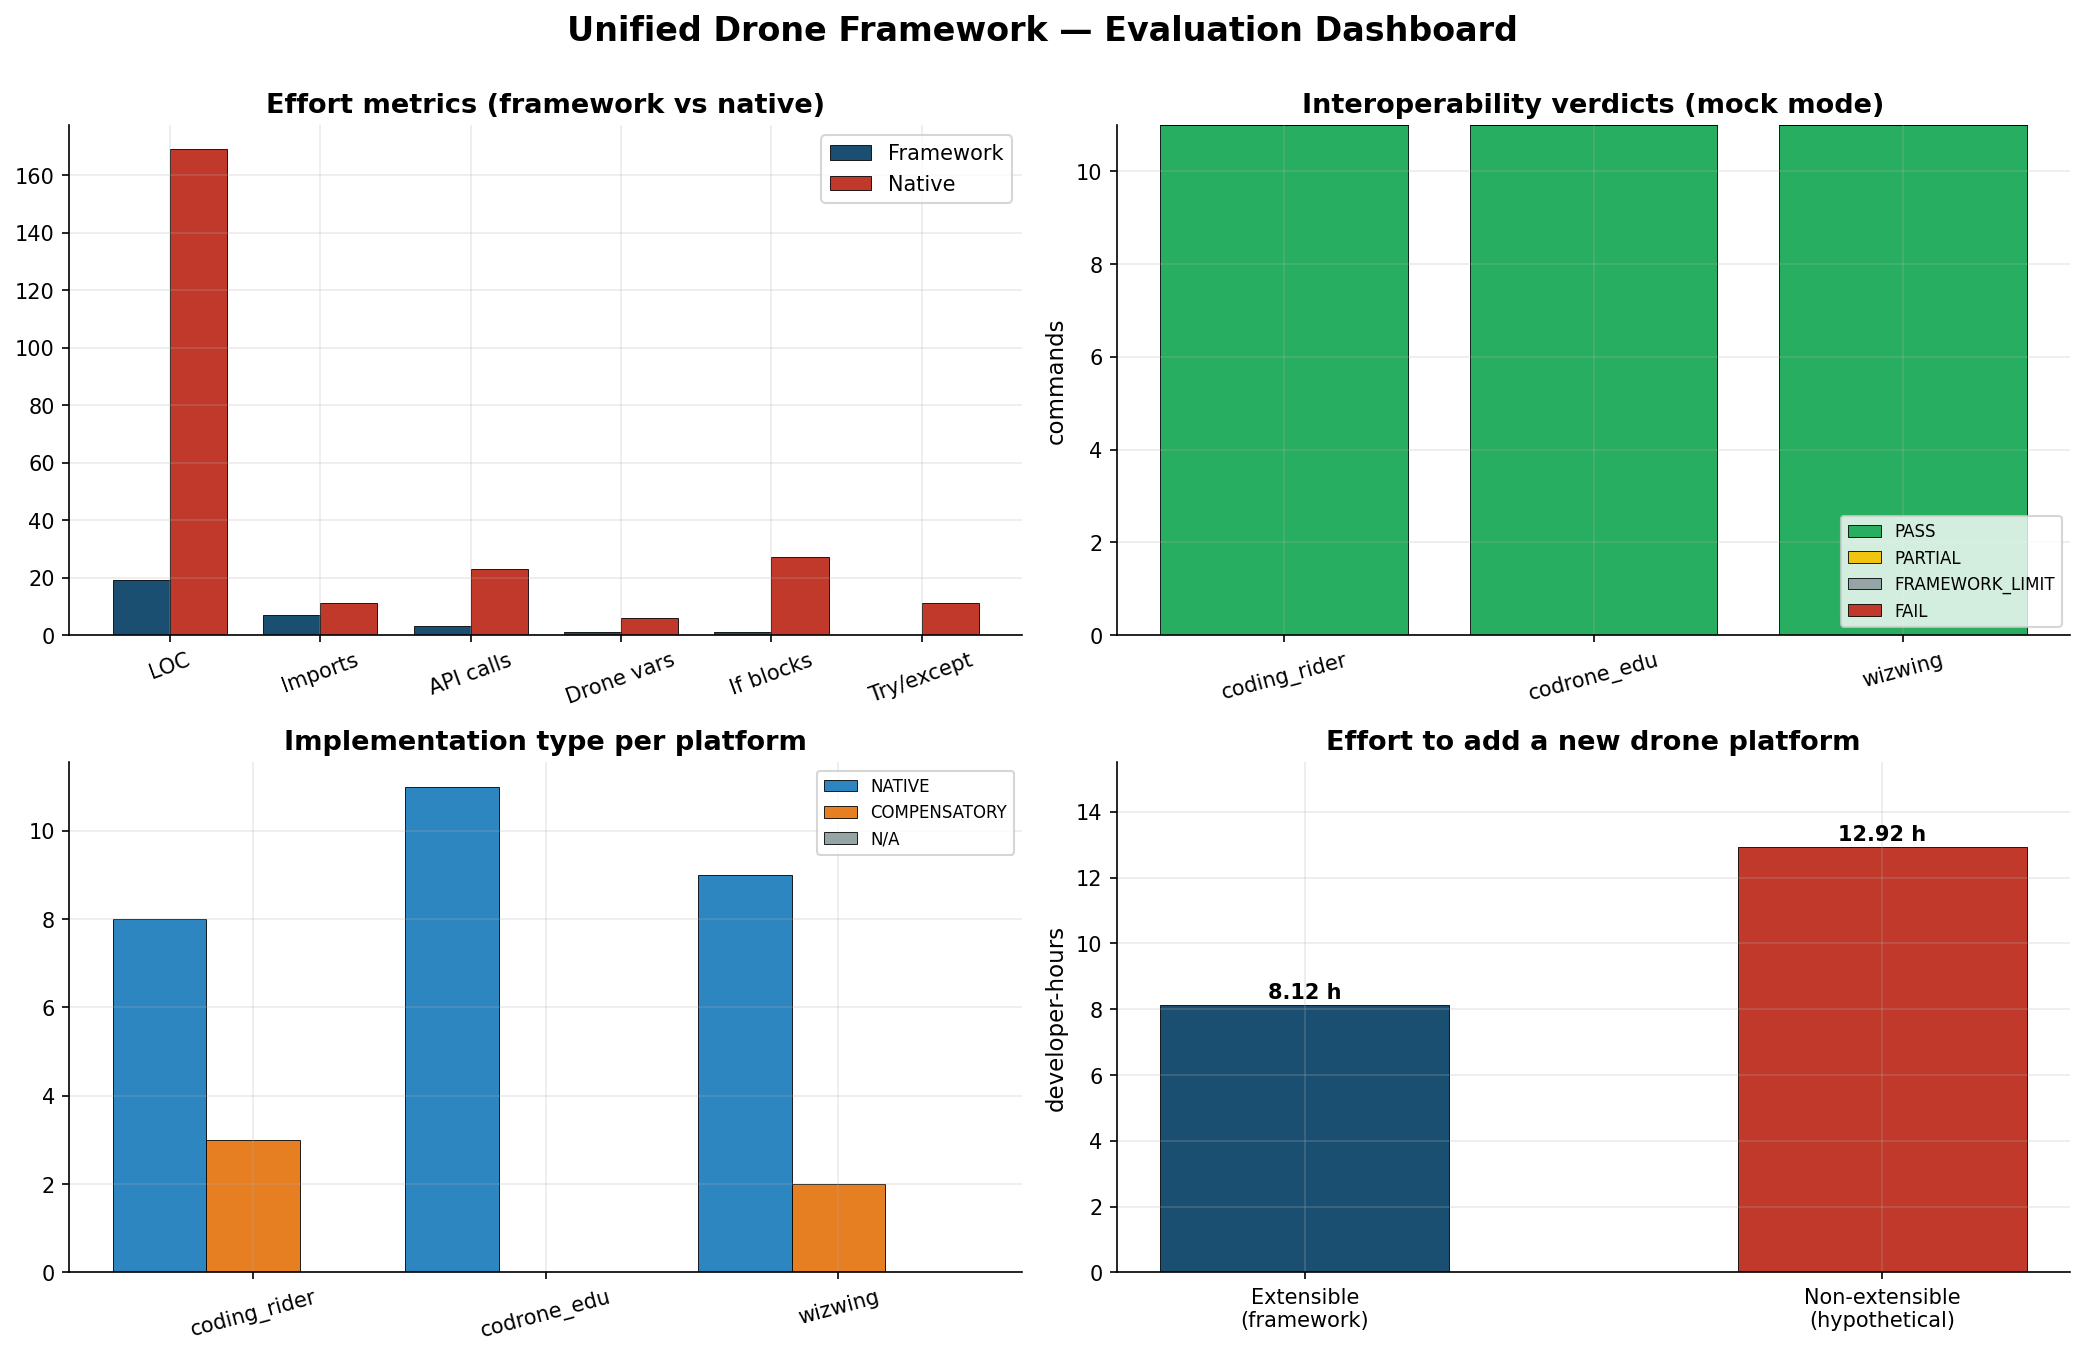
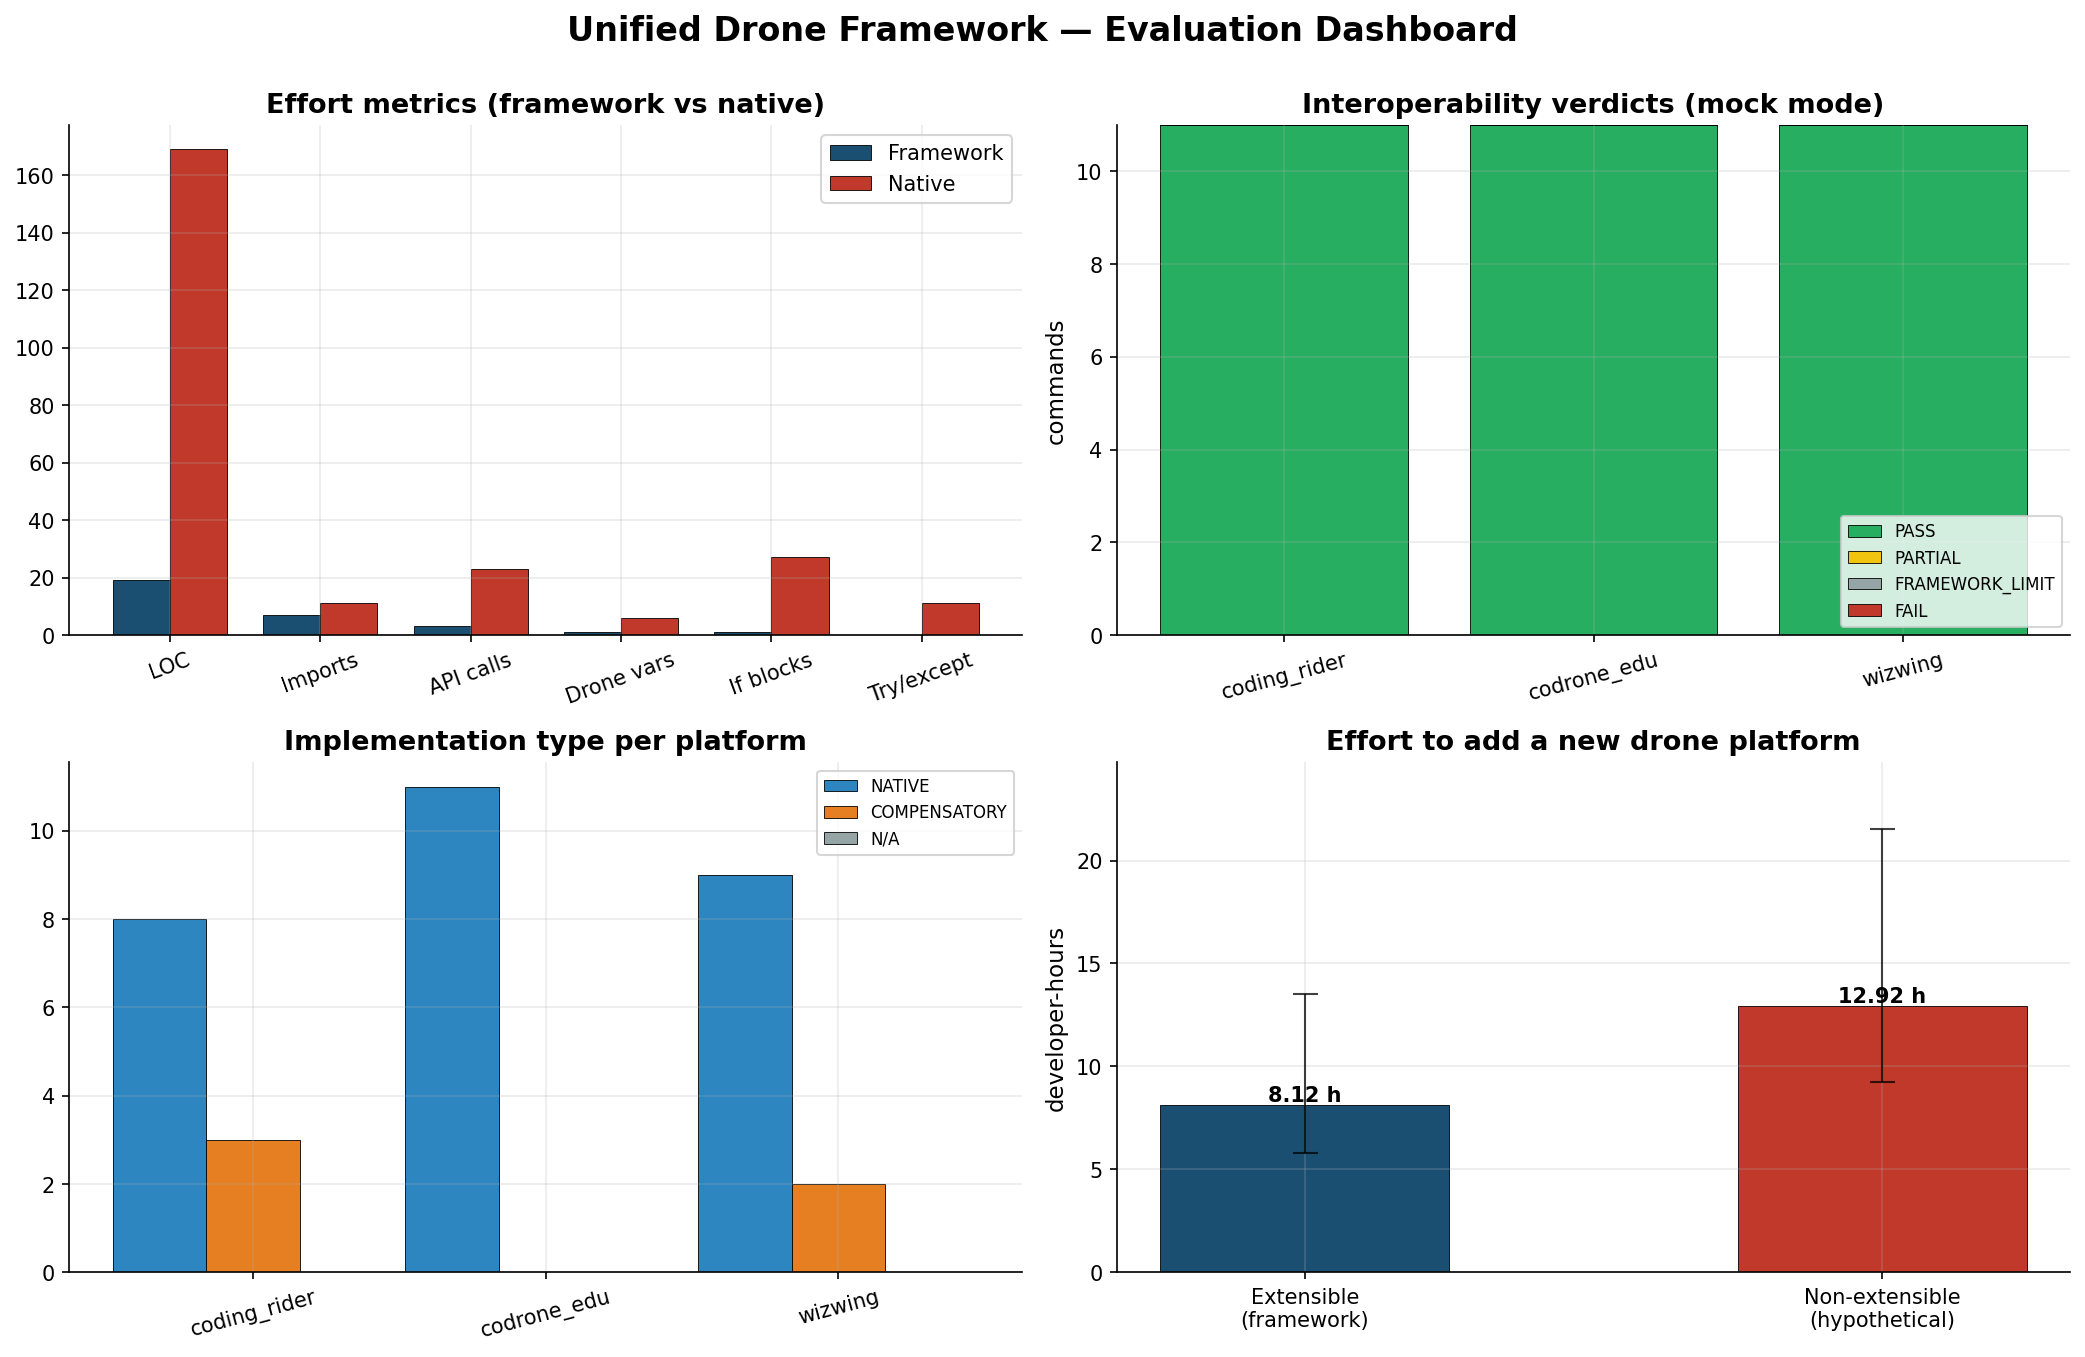
Report extensibility effort as interval over 15-35 LOC/h productivity range
Replace the single 25 LOC/h figure with a low/mid/high band sourced from
McConnell, Code Complete (2nd ed., 2004), ch. 27.3. The script now reports
implementation, totals, and savings as point estimate + interval; the
chart uses error bars on the productivity range. The savings percentage
(37.1%) is empirically invariant across the rate, which strengthens the
conclusion against criticism of the LOC/h figure as a magic number.

Changed region(s): [[0.8106, 0.5881, 0.9976, 0.7428], [0.53, 0.7119, 0.717, 0.8666], [0.8729, 0.7738, 0.9353, 0.8047]]

diff --git a/eval_extensibility.py b/eval_extensibility.py
@@ -74,9 +74,16 @@ EXISTING_ADAPTER_FILES = [
 ]
 CSV_OUTPUT = ROOT / "extensibility_results.csv"
 
-# Industry baseline: net (debugged) Python LOC produced per developer-hour.
-# Conservative figure used to convert LOC into rough effort estimates.
-LOC_PER_HOUR_DEVELOPER = 25
+# Industry baseline range for net (debugged) Python LOC per developer-hour.
+# Source: McConnell, "Code Complete" (2nd ed., 2004), §27.3 reports ~10-50
+# LOC/h for small/medium projects; Boehm's COCOMO (1981, 2000) reports a
+# similar coding-phase band. Individual-developer productivity varies by an
+# order of magnitude (Sackman, Erikson & Grant, 1968), so we report effort
+# as an interval, not a point. 15-35 covers the small/medium-project band;
+# the midpoint (25) is used for the point estimate retained in summaries.
+LOC_PER_HOUR_LOW = 15
+LOC_PER_HOUR_MID = 25
+LOC_PER_HOUR_HIGH = 35
 
 
 # ---------------------------------------------------------------------
@@ -314,33 +321,69 @@ def backward_compat_test() -> Dict[str, Any]:
 def effort_estimate(new_loc: int, eval_seconds: float) -> Dict[str, Any]:
     """Compare effort vs. a hypothetical non-extensible framework.
 
+    Effort is reported as an interval [low, high] driven by the productivity
+    range LOC_PER_HOUR_LOW..LOC_PER_HOUR_HIGH (see module-level note for
+    sources). The midpoint provides a point estimate for tables. Note that
+    the *percentage* of savings is essentially invariant under the rate —
+    only absolute hours scale with productivity — which strengthens the
+    conclusion against criticism of the LOC/h figure.
+
     Hypothetical baseline: a tightly-coupled framework would also require
     editing manager dispatch, central registry list, and at least one
     enum/registration block in every existing adapter (~30 LOC each).
     """
-    impl_hours = new_loc / LOC_PER_HOUR_DEVELOPER
     register_seconds = 0.5  # one decorator line
     test_seconds = eval_seconds
+    overhead_hours = (register_seconds + test_seconds) / 3600
 
     hypothetical_extra_loc = 30 * 4  # 4 existing files would need edits
     hypothetical_total_loc = new_loc + hypothetical_extra_loc
-    hypothetical_hours = hypothetical_total_loc / LOC_PER_HOUR_DEVELOPER
 
-    extensible_total_h = (
-        impl_hours + register_seconds / 3600 + test_seconds / 3600
-    )
+    # Point estimates (midpoint rate). Hypothetical never runs the test
+    # harness, so its only cost is implementation LOC.
+    impl_hours = new_loc / LOC_PER_HOUR_MID
+    extensible_total_h = impl_hours + overhead_hours
+    hypothetical_hours = hypothetical_total_loc / LOC_PER_HOUR_MID
     saved_h = hypothetical_hours - extensible_total_h
     saved_pct = (1.0 - extensible_total_h / hypothetical_hours) * 100.0
 
+    # Interval bounds (note inversion: high rate -> low hours).
+    impl_hours_low  = new_loc / LOC_PER_HOUR_HIGH
+    impl_hours_high = new_loc / LOC_PER_HOUR_LOW
+    extensible_low  = impl_hours_low  + overhead_hours
+    extensible_high = impl_hours_high + overhead_hours
+    hypothetical_low  = hypothetical_total_loc / LOC_PER_HOUR_HIGH
+    hypothetical_high = hypothetical_total_loc / LOC_PER_HOUR_LOW
+    # Pair each rate's (ext, hyp) for a coherent saved-hours bound.
+    saved_at_high_rate = hypothetical_low  - extensible_low   # smallest delta
+    saved_at_low_rate  = hypothetical_high - extensible_high  # largest delta
+    saved_h_low  = min(saved_at_high_rate, saved_at_low_rate)
+    saved_h_high = max(saved_at_high_rate, saved_at_low_rate)
+    saved_pct_low  = (1.0 - extensible_high / hypothetical_high) * 100.0
+    saved_pct_high = (1.0 - extensible_low  / hypothetical_low)  * 100.0
+
     return {
-        "implementation_hours": impl_hours,
-        "registration_seconds": register_seconds,
-        "test_runtime_seconds": test_seconds,
-        "extensible_total_hours": extensible_total_h,
-        "hypothetical_total_hours": hypothetical_hours,
-        "savings_hours": saved_h,
-        "savings_pct": saved_pct,
-        "hypothetical_extra_loc": hypothetical_extra_loc,
+        "implementation_hours":          impl_hours,
+        "implementation_hours_low":      impl_hours_low,
+        "implementation_hours_high":     impl_hours_high,
+        "registration_seconds":          register_seconds,
+        "test_runtime_seconds":          test_seconds,
+        "extensible_total_hours":        extensible_total_h,
+        "extensible_total_hours_low":    extensible_low,
+        "extensible_total_hours_high":   extensible_high,
+        "hypothetical_total_hours":      hypothetical_hours,
+        "hypothetical_total_hours_low":  hypothetical_low,
+        "hypothetical_total_hours_high": hypothetical_high,
+        "savings_hours":                 saved_h,
+        "savings_hours_low":             saved_h_low,
+        "savings_hours_high":            saved_h_high,
+        "savings_pct":                   saved_pct,
+        "savings_pct_low":               saved_pct_low,
+        "savings_pct_high":              saved_pct_high,
+        "hypothetical_extra_loc":        hypothetical_extra_loc,
+        "rate_low":                      LOC_PER_HOUR_LOW,
+        "rate_mid":                      LOC_PER_HOUR_MID,
+        "rate_high":                     LOC_PER_HOUR_HIGH,
     }
 
 
@@ -414,24 +457,39 @@ def print_report(
 
     print(banner("EFFORT TIMELINE (BONUS)"))
     print(
+        f" Productivity range:          "
+        f"{LOC_PER_HOUR_LOW}-{LOC_PER_HOUR_HIGH} LOC/h "
+        f"(midpoint {LOC_PER_HOUR_MID} LOC/h)"
+    )
+    print(
         f" Implementation:              "
         f"{eff['implementation_hours']:.2f} h "
-        f"({fa['new_adapter_loc']} LOC @ {LOC_PER_HOUR_DEVELOPER} LOC/h)"
+        f"(range {eff['implementation_hours_low']:.2f}-{eff['implementation_hours_high']:.2f} h, "
+        f"{fa['new_adapter_loc']} LOC)"
     )
     print(f" Registration overhead:       {eff['registration_seconds']:.2f} seconds (one decorator)")
     print(f" Test runtime:                {eff['test_runtime_seconds']:.3f} seconds")
-    print(f" Total (extensible):          {eff['extensible_total_hours']:.2f} h")
+    print(
+        f" Total (extensible):          "
+        f"{eff['extensible_total_hours']:.2f} h "
+        f"(range {eff['extensible_total_hours_low']:.2f}-{eff['extensible_total_hours_high']:.2f} h)"
+    )
     print(
         f" Total (non-extensible*):     "
         f"{eff['hypothetical_total_hours']:.2f} h "
-        f"(+{eff['hypothetical_extra_loc']} LOC across 4 existing files)"
+        f"(range {eff['hypothetical_total_hours_low']:.2f}-{eff['hypothetical_total_hours_high']:.2f} h, "
+        f"+{eff['hypothetical_extra_loc']} LOC across 4 existing files)"
     )
     print(
         f" Time saved:                  "
-        f"{eff['savings_hours']:.2f} h ({eff['savings_pct']:.1f}%)"
+        f"{eff['savings_hours']:.2f} h ({eff['savings_pct']:.1f}%) "
+        f"[range {eff['savings_hours_low']:.2f}-{eff['savings_hours_high']:.2f} h, "
+        f"{eff['savings_pct_low']:.1f}-{eff['savings_pct_high']:.1f}%]"
     )
     print(" * Hypothetical baseline assumes a tightly-coupled framework where")
     print("   adding a drone requires touching manager + registry + every adapter.")
+    print(" * Productivity range from McConnell, Code Complete (2nd ed., 2004), ch. 27.3.")
+    print("   The savings percentage is robust under the rate; only absolute hours scale.")
 
 
 def write_csv(
@@ -473,13 +531,26 @@ def write_csv(
         ),
         ("backward_compat", "three_drone_workflow", bc["three_drone_workflow"]),
         ("backward_compat", "originals_intact", bc["originals_intact"]),
+        ("effort", "rate_low_loc_per_hour", str(eff["rate_low"])),
+        ("effort", "rate_mid_loc_per_hour", str(eff["rate_mid"])),
+        ("effort", "rate_high_loc_per_hour", str(eff["rate_high"])),
         ("effort", "implementation_hours", f"{eff['implementation_hours']:.3f}"),
+        ("effort", "implementation_hours_low", f"{eff['implementation_hours_low']:.3f}"),
+        ("effort", "implementation_hours_high", f"{eff['implementation_hours_high']:.3f}"),
         ("effort", "registration_seconds", f"{eff['registration_seconds']:.2f}"),
         ("effort", "test_runtime_seconds", f"{eff['test_runtime_seconds']:.3f}"),
         ("effort", "extensible_total_hours", f"{eff['extensible_total_hours']:.3f}"),
+        ("effort", "extensible_total_hours_low", f"{eff['extensible_total_hours_low']:.3f}"),
+        ("effort", "extensible_total_hours_high", f"{eff['extensible_total_hours_high']:.3f}"),
         ("effort", "hypothetical_total_hours", f"{eff['hypothetical_total_hours']:.3f}"),
+        ("effort", "hypothetical_total_hours_low", f"{eff['hypothetical_total_hours_low']:.3f}"),
+        ("effort", "hypothetical_total_hours_high", f"{eff['hypothetical_total_hours_high']:.3f}"),
         ("effort", "savings_hours", f"{eff['savings_hours']:.3f}"),
+        ("effort", "savings_hours_low", f"{eff['savings_hours_low']:.3f}"),
+        ("effort", "savings_hours_high", f"{eff['savings_hours_high']:.3f}"),
         ("effort", "savings_pct", f"{eff['savings_pct']:.1f}"),
+        ("effort", "savings_pct_low", f"{eff['savings_pct_low']:.1f}"),
+        ("effort", "savings_pct_high", f"{eff['savings_pct_high']:.1f}"),
     ]
     with CSV_OUTPUT.open("w", newline="", encoding="utf-8") as f:
         csv.writer(f).writerows(rows)

diff --git a/visualize_results.py b/visualize_results.py
@@ -190,39 +190,60 @@ def chart_extensibility_compliance() -> Path:
 # 3. EXTENSIBILITY: Effort comparison
 # =====================================================================
 
-def _read_extensibility_effort() -> Tuple[float, float, float, float]:
-    """Read hours/savings from extensibility_results.csv (live, not hard-coded)."""
+def _read_extensibility_effort() -> Dict[str, float]:
+    """Read hours/savings from extensibility_results.csv (live, not hard-coded).
+
+    Returns midpoint values plus the low/high bounds driven by the
+    productivity range encoded in eval_extensibility.py.
+    """
     rows = read_csv(ROOT / "extensibility_results.csv")
     by_metric = {r["metric"]: r["value"] for r in rows}
-    h_ext = float(by_metric.get("implementation_hours", "8.0"))
-    h_non = float(by_metric.get("hypothetical_total_hours", "12.8"))
-    saved = float(by_metric.get("savings_hours", "4.8"))
-    saved_pct = float(by_metric.get("savings_pct", "37.5"))
-    return h_ext, h_non, saved, saved_pct
+    def f(key: str, default: str) -> float:
+        return float(by_metric.get(key, default))
+    return {
+        "ext":       f("extensible_total_hours",        "8.12"),
+        "ext_low":   f("extensible_total_hours_low",    "5.72"),
+        "ext_high":  f("extensible_total_hours_high",   "13.33"),
+        "non":       f("hypothetical_total_hours",      "12.80"),
+        "non_low":   f("hypothetical_total_hours_low",  "9.14"),
+        "non_high":  f("hypothetical_total_hours_high", "21.33"),
+        "saved":     f("savings_hours",                 "4.80"),
+        "saved_pct": f("savings_pct",                   "37.5"),
+        "rate_low":  f("rate_low_loc_per_hour",         "15"),
+        "rate_high": f("rate_high_loc_per_hour",        "35"),
+    }
 
 
 def chart_extensibility_effort() -> Path:
-    h_ext, h_non, saved, saved_pct = _read_extensibility_effort()
+    e = _read_extensibility_effort()
     fig, ax = plt.subplots(figsize=(7, 5))
     labels = ["Extensible\n(framework)", "Non-extensible\n(hypothetical)"]
-    hours = [h_ext, h_non]
+    hours = [e["ext"], e["non"]]
+    err_low  = [e["ext"] - e["ext_low"],  e["non"] - e["non_low"]]
+    err_high = [e["ext_high"] - e["ext"], e["non_high"] - e["non"]]
     colors = [COLORS["framework"], COLORS["native"]]
 
-    bars = ax.bar(labels, hours, color=colors, edgecolor="black", linewidth=0.5, width=0.5)
+    bars = ax.bar(labels, hours, color=colors, edgecolor="black", linewidth=0.5,
+                  width=0.5, yerr=[err_low, err_high],
+                  capsize=8, ecolor="black",
+                  error_kw={"linewidth": 1.5, "alpha": 0.75})
     for bar, h in zip(bars, hours):
         ax.text(bar.get_x() + bar.get_width() / 2, h + 0.2, f"{h:.2f} h",
                 ha="center", fontweight="bold")
 
-    ax.annotate(f"{saved:.2f} h saved\n({saved_pct:.1f}%)",
-                xy=(0.5, (h_ext + h_non) / 2),
-                xytext=(0.5, h_non * 0.87),
+    ax.annotate(f"{e['saved']:.2f} h saved\n({e['saved_pct']:.1f}%)",
+                xy=(0.5, (hours[0] + hours[1]) / 2),
+                xytext=(0.5, hours[1] * 0.87),
                 ha="center", fontsize=11, fontweight="bold",
                 color=COLORS["saved"],
                 arrowprops=dict(arrowstyle="->", color=COLORS["saved"], lw=2))
 
     ax.set_ylabel("Developer-hours")
-    ax.set_title("Effort to add a new drone platform")
-    ax.set_ylim(0, max(hours) * 1.25)
+    ax.set_title(
+        "Effort to add a new drone platform\n"
+        f"(error bars: {int(e['rate_low'])}-{int(e['rate_high'])} LOC/h productivity range)"
+    )
+    ax.set_ylim(0, max(e["ext_high"], e["non_high"]) * 1.15)
     return save(fig, "fig03_extensibility_effort.png")
 
 
@@ -648,18 +669,22 @@ def chart_dashboard() -> Path:
     ax.legend(fontsize=8)
 
     # Panel 4: Extensibility hours (live from CSV)
-    h_ext, h_non, _, _ = _read_extensibility_effort()
+    e = _read_extensibility_effort()
     ax = axes[1, 1]
     labels = ["Extensible\n(framework)", "Non-extensible\n(hypothetical)"]
-    hours = [h_ext, h_non]
+    hours = [e["ext"], e["non"]]
+    err_low  = [e["ext"] - e["ext_low"],  e["non"] - e["non_low"]]
+    err_high = [e["ext_high"] - e["ext"], e["non_high"] - e["non"]]
     bars = ax.bar(labels, hours, color=[COLORS["framework"], COLORS["native"]],
-                  edgecolor="black", linewidth=0.4, width=0.5)
+                  edgecolor="black", linewidth=0.4, width=0.5,
+                  yerr=[err_low, err_high], capsize=6, ecolor="black",
+                  error_kw={"linewidth": 1.0, "alpha": 0.75})
     for bar, h in zip(bars, hours):
         ax.text(bar.get_x() + bar.get_width() / 2, h + 0.2, f"{h:.2f} h",
                 ha="center", fontweight="bold")
     ax.set_title("Effort to add a new drone platform")
     ax.set_ylabel("developer-hours")
-    ax.set_ylim(0, max(hours) * 1.2)
+    ax.set_ylim(0, max(e["ext_high"], e["non_high"]) * 1.15)
 
     fig.tight_layout()
     return save(fig, "fig00_dashboard.png")

diff --git a/README.md b/README.md
@@ -406,13 +406,18 @@ All evaluation scripts are reproducible and produce CSV outputs
 | Original 3-drone workflow still works | PASS |
 | Originals intact (no regression) | PASS |
 
-**Effort estimate:**
+**Effort estimate** (productivity range 15–35 LOC/h, midpoint 25 LOC/h;
+McConnell, _Code Complete_ 2nd ed., ch. 27.3):
 
-| Approach | Hours | LOC added |
-|----------|-------|-----------|
-| Extensible (this framework) | **8.0 h** | 200 LOC in one new file |
-| Non-extensible (hypothetical) | 12.8 h | 200 + 120 LOC across 5 files |
-| **Time saved** | **4.8 h (37.5%)** | — |
+| Approach | Hours (midpoint) | Range | LOC added |
+|----------|------------------|-------|-----------|
+| Extensible (this framework) | **8.12 h** | 5.80–13.54 h | 203 LOC in one new file |
+| Non-extensible (hypothetical) | 12.92 h | 9.23–21.53 h | 203 + 120 LOC across 5 files |
+| **Time saved** | **4.80 h (37.1%)** | 3.43–8.00 h | — |
+
+The savings **percentage is invariant under the productivity rate** (37.1% at
+every point in the range); only the absolute hours scale. This makes the
+conclusion robust to criticism of the LOC/h figure.
 
 **Adapter size comparison** (LOC, logic only):
 
